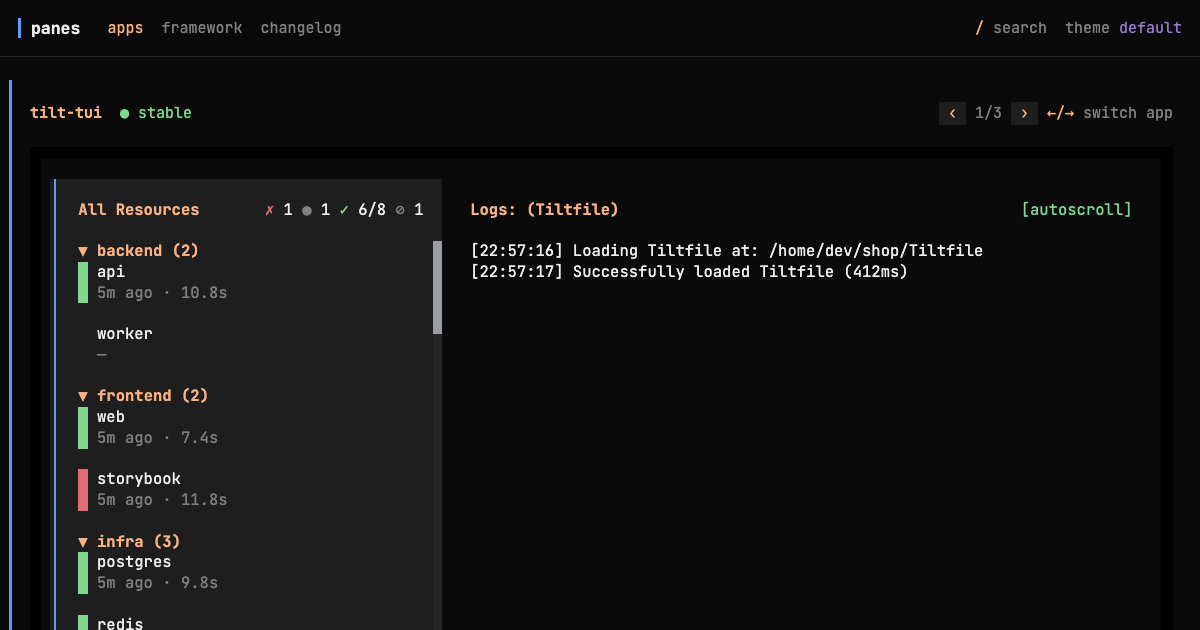
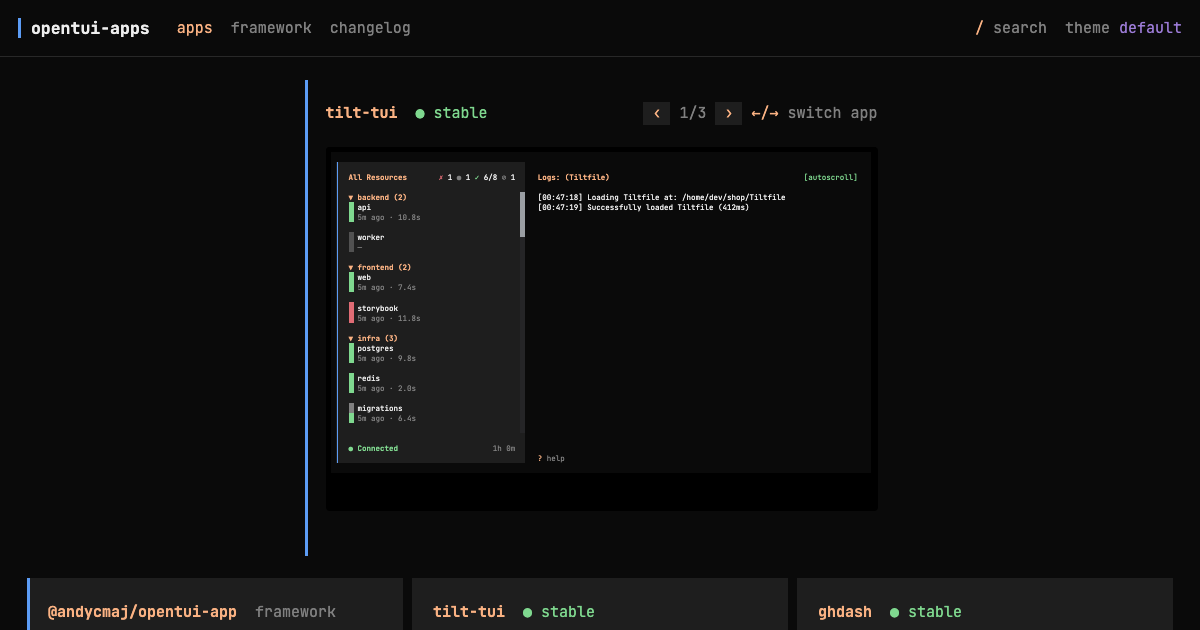
feat(site): rename the site from "panes" to "opentui-apps"
"panes" was vague. The header brand, page titles ("Quick Start ·
opentui-apps"), og:site_name, og.png, package description and READMEs
now say opentui-apps. Internal names follow (theme storage key, overlay
event, player theme) so nothing is left named after the old brand; the
storage key change only resets a remembered theme, and the site has not
shipped. The URL is unchanged: andycmaj.github.io/opentui-app.

diff --git a/apps/site/src/islands/recording.tsx b/apps/site/src/islands/recording.tsx
@@ -28,7 +28,7 @@ export default function Recording(props: RecordingProps): JSX.Element {
     // Unmounted while the player module loaded (the hero switched app).
     if (disposed) return;
     player = create(props.src, container, {
-      theme: "panes",
+      theme: "opentui-apps",
       fit: "width",
       autoPlay: props.still ? false : (props.autoPlay ?? false),
       loop: props.still ? false : (props.loop ?? true),

diff --git a/apps/site/scripts/gen-tokens.ts b/apps/site/scripts/gen-tokens.ts
@@ -181,7 +181,7 @@ const ansi = [
   "#ffffff",
 ];
 const playerTheme = [
-  ".asciinema-player-theme-panes {",
+  ".asciinema-player-theme-opentui-apps {",
   `  --term-color-foreground: ${d.text};`,
   `  --term-color-background: ${d.background};`,
   ...ansi.map((c, i) => `  --term-color-${i}: ${c};`),

diff --git a/apps/site/src/lib/overlay.ts b/apps/site/src/lib/overlay.ts
@@ -8,7 +8,7 @@ export const Overlay = {
 } as const;
 export type Overlay = (typeof Overlay)[keyof typeof Overlay];
 
-const OPEN_EVENT = "panes:open";
+const OPEN_EVENT = "opentui-apps:open";
 
 export function openOverlay(overlay: Overlay): void {
   document.dispatchEvent(

diff --git a/apps/site/src/themes.ts b/apps/site/src/themes.ts
@@ -6,4 +6,4 @@ export const SITE_THEMES = [
   "tokyo-night",
 ] as const;
 export type SiteTheme = (typeof SITE_THEMES)[number];
-export const THEME_STORAGE_KEY = "panes:theme";
+export const THEME_STORAGE_KEY = "opentui-appsheme";

diff --git a/docs/plans/site.md b/docs/plans/site.md
@@ -1,4 +1,4 @@
-# Plan: "panes" website
+# Plan: "opentui-apps" website
 
 Home for the TUI apps built on `@andycmaj/opentui-app`, with the framework as
 one of them. Decisions settled in the 2026-10-23 grilling session; this file is
@@ -6,7 +6,7 @@ the build plan.
 
 ## Settled decisions
 
-- **Name / URL:** "panes", GitHub Pages default URL (`andycmaj.github.io/opentui-app`).
+- **Name / URL:** "opentui-apps" (renamed from "panes" on 2026-11-25), GitHub Pages default URL (`andycmaj.github.io/opentui-app`).
 - **Code:** `apps/site` in this monorepo. Astro, custom layout (no Starlight
   theme), small Solid islands.
 - **Apps at launch:** `tilt-tui`, `ghdash` (repo and binary name; the roster called it ghdash-tui), `kube-tui` (beta). `dotsync`
@@ -73,7 +73,7 @@ app repo (`<repo>.site-demo` worktrees), not yet merged or released.
    edge, focus ring = `--border-active`), `PaneHeader`, `StatusBadge`,
    `KeyHint`, `Footer`. Fonts: self-hosted mono (e.g. JetBrains Mono) +
    proportional body.
-4. Base layout: header pane (logo "panes", nav: Apps / Framework / Changelog,
+4. Base layout: header pane (logo "opentui-apps", nav: Apps / Framework / Changelog,
    theme indicator), main content, keybind footer.
 
 Verify: `bun run build:site` succeeds; every theme renders header/footer/panes

diff --git a/README.md b/README.md
@@ -12,7 +12,7 @@ commands, and screens); the framework provides everything else.
 ```
 packages/core     @andycmaj/opentui-app — the framework + design library
 apps/example       demos consuming the library (basic two-pane, keymaps)
-apps/site          "panes", the website for the framework and its apps
+apps/site          "opentui-apps", the website for the framework and its apps
 ```
 
 ## What the library gives you

diff --git a/apps/site/README.md b/apps/site/README.md
@@ -1,4 +1,4 @@
-# panes — the website
+# opentui-apps — the website
 
 Astro site for `@andycmaj/opentui-app` and the apps built on it, served from
 GitHub Pages at <https://andycmaj.github.io/opentui-app/>. The build plan and
